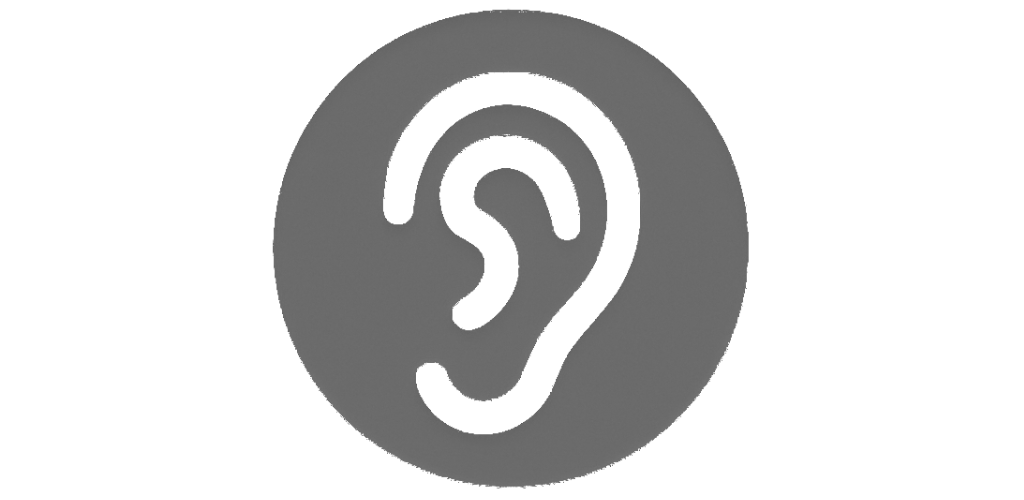
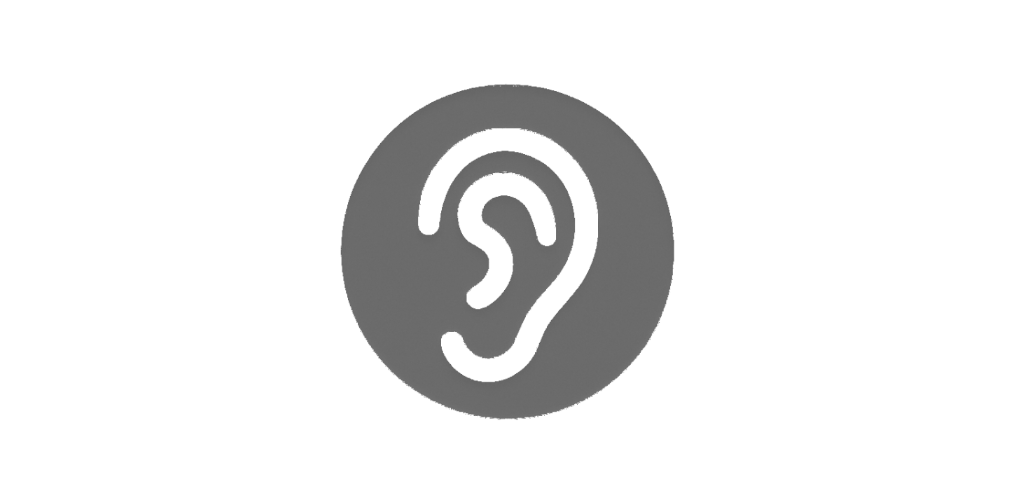
Fix recording status display and update default settings
- Fix recording status to show 'Active' when service is running
  * Updated updateRecordingStatus() to check service state first
  * Added 'status_active' string resource
  * Recording status now shows 'Active' instead of 'Stopped' when service runs

- Update default settings to match requirements:
  * Auto music mode: enabled by default (was false)
  * Segment duration: 120 seconds when auto music is off (was 60)
  * Max storage: 10GB instead of 100MB (10240 MB)
  * Retention period: 12 hours instead of 10 minutes (720 minutes)

- Update settings UI to use GB instead of MB for storage
  * Changed label from 'Max Storage (MB)' to 'Max Storage (GB)'
  * Updated SettingsActivity to convert between GB/MB for display

- Update Play Store icons with new designs

Changed region(s): [[0.25, 0.0, 0.75, 0.99]]

diff --git a/app/src/main/java/com/listen/app/ui/MainActivity.kt b/app/src/main/java/com/listen/app/ui/MainActivity.kt
@@ -464,6 +464,20 @@ class MainActivity : AppCompatActivity() {
                 binding.tvAvailableStorage.text = "Available: $availableStorage"
                 binding.tvSegmentsCount.text = "Segments: $segmentCount"
                 
+                // Update recording status based on service state
+                if (isServiceActuallyRunning) {
+                    // If service is running, check if it's actively recording
+                    val isRecording = try {
+                        // Try to get recording status from service, fallback to false if not available
+                        false // This will be updated by broadcast receiver if service is broadcasting
+                    } catch (e: Exception) {
+                        false
+                    }
+                    updateRecordingStatus(isRecording, 0L)
+                } else {
+                    updateRecordingStatus(false, 0L)
+                }
+                
                 maybeWarnLowStorage()
                 
                 AppLog.d(TAG, "Service enabled: $isServiceEnabled, Actually running: $isServiceActuallyRunning")
@@ -484,16 +498,23 @@ class MainActivity : AppCompatActivity() {
     private fun updateRecordingStatus(isRecording: Boolean, elapsedMs: Long) {
         val minutes = elapsedMs / 60000
         val seconds = (elapsedMs % 60000) / 1000
-        binding.tvRecordingStatus.text = if (isRecording) {
-            getString(R.string.label_recording) + ":  ${minutes}:${String.format("%02d", seconds)}"
+        val isServiceActuallyRunning = isServiceActuallyRunning()
+        
+        // Show recording status based on service state, not just active recording
+        binding.tvRecordingStatus.text = if (isServiceActuallyRunning) {
+            if (isRecording) {
+                getString(R.string.label_recording) + ":  ${minutes}:${String.format("%02d", seconds)}"
+            } else {
+                getString(R.string.label_recording) + ": " + getString(R.string.status_active)
+            }
         } else {
             getString(R.string.label_recording) + ": " + getString(R.string.status_stopped)
         }
-        val recordingColorRes = if (isRecording) R.color.recording_red else R.color.stopped_gray
+        
+        val recordingColorRes = if (isServiceActuallyRunning) R.color.recording_red else R.color.stopped_gray
         binding.tvRecordingStatus.setTextColor(ContextCompat.getColor(this, recordingColorRes))
         
         // Update service status to show it's actually running
-        val isServiceActuallyRunning = isServiceActuallyRunning()
         binding.tvServiceStatus.text = when {
             isServiceActuallyRunning -> getString(R.string.status_service_running)
             settings.isServiceEnabled -> getString(R.string.status_service_starting)

diff --git a/app/src/main/java/com/listen/app/ui/SettingsActivity.kt b/app/src/main/java/com/listen/app/ui/SettingsActivity.kt
@@ -37,7 +37,7 @@ class SettingsActivity : AppCompatActivity() {
 		// Pre-fill current values
 		etSegmentDuration.setText(settings.segmentDurationSeconds.toString())
 		etRetentionMinutes.setText(settings.retentionPeriodMinutes.toString())
-		etMaxStorage.setText(settings.maxStorageMB.toString())
+		etMaxStorage.setText((settings.maxStorageMB / 1024).toString()) // Convert MB to GB for display
 		swAutoStart.isChecked = settings.autoStartOnBoot
 		swPowerSaving.isChecked = settings.powerSavingModeEnabled
 		swAdaptive.isChecked = settings.adaptivePerformanceEnabled
@@ -60,7 +60,7 @@ class SettingsActivity : AppCompatActivity() {
 		btnSave.setOnClickListener {
 			settings.segmentDurationSeconds = etSegmentDuration.text.toString().toIntOrNull() ?: settings.segmentDurationSeconds
 			settings.retentionPeriodMinutes = etRetentionMinutes.text.toString().toIntOrNull() ?: settings.retentionPeriodMinutes
-			settings.maxStorageMB = etMaxStorage.text.toString().toIntOrNull() ?: settings.maxStorageMB
+			settings.maxStorageMB = (etMaxStorage.text.toString().toIntOrNull() ?: (settings.maxStorageMB / 1024)) * 1024 // Convert GB to MB
 			swAutoStart.isChecked.also { settings.autoStartOnBoot = it }
 			swPowerSaving.isChecked.also { settings.powerSavingModeEnabled = it }
 			swAdaptive.isChecked.also { settings.adaptivePerformanceEnabled = it }

diff --git a/app/src/main/java/com/listen/app/settings/SettingsManager.kt b/app/src/main/java/com/listen/app/settings/SettingsManager.kt
@@ -25,7 +25,7 @@ class SettingsManager(context: Context) {
     
     /** Whether auto music mode is enabled */
     var autoMusicModeEnabled: Boolean
-        get() = prefs.getBoolean(KEY_AUTO_MUSIC_MODE, false)
+        get() = prefs.getBoolean(KEY_AUTO_MUSIC_MODE, true) // Changed default to true
         set(value) = prefs.edit { putBoolean(KEY_AUTO_MUSIC_MODE, value) }
     
     /** Retention period in minutes */
@@ -150,9 +150,9 @@ class SettingsManager(context: Context) {
         private const val KEY_USER_CONSENTED_TO_RECORDING = "user_consented_to_recording"
         
         // Default values
-        const val DEFAULT_SEGMENT_DURATION = 60 // 1 minute
-        const val DEFAULT_RETENTION_PERIOD = 10 // 10 minutes
-        const val DEFAULT_MAX_STORAGE = 100 // 100 MB
+        const val DEFAULT_SEGMENT_DURATION = 120 // 2 minutes (changed from 60)
+        const val DEFAULT_RETENTION_PERIOD = 720 // 12 hours (changed from 10 minutes)
+        const val DEFAULT_MAX_STORAGE = 10240 // 10 GB (changed from 100 MB)
         const val AUTO_MUSIC_TARGET_SECONDS = 300 // ~5 minutes
     }
 }
